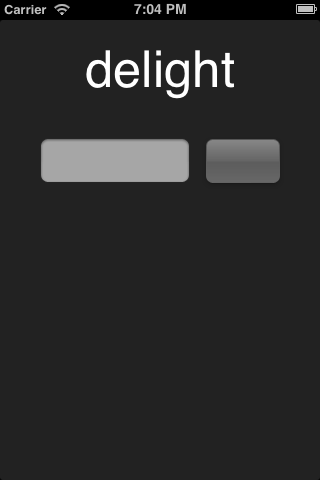
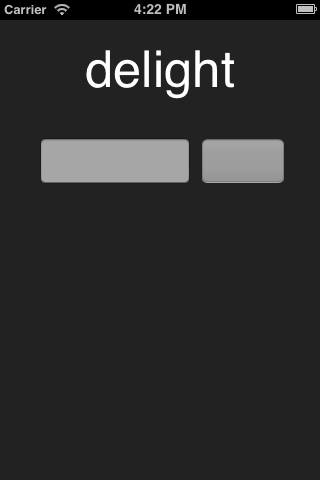
UI tweaks.

diff --git a/DelightBrowser/Classes/TaskViewController.m b/DelightBrowser/Classes/TaskViewController.m
@@ -54,8 +54,8 @@
     actionGradient.locations = [NSArray arrayWithObjects:[NSNumber numberWithFloat:0.0], [NSNumber numberWithFloat:1.0], nil];
     [self.actionButtonsView.layer insertSublayer:actionGradient atIndex:0];
     
-    UIImage *normalImage = [[UIImage imageNamed:@"button_rounded.png"] resizableImageWithCapInsets:UIEdgeInsetsMake(9, 3, 9, 3)];
-    UIImage *pressedImage = [[UIImage imageNamed:@"button_rounded_pressed.png"] resizableImageWithCapInsets:UIEdgeInsetsMake(9, 3, 9, 3)];
+    UIImage *normalImage = [[UIImage imageNamed:@"button_rounded.png"] resizableImageWithCapInsets:UIEdgeInsetsMake(14, 5, 14, 5)];
+    UIImage *pressedImage = [[UIImage imageNamed:@"button_rounded_pressed.png"] resizableImageWithCapInsets:UIEdgeInsetsMake(14, 5, 14, 5)];
     [self.nextTaskButton setBackgroundImage:normalImage forState:UIControlStateNormal];
     [self.nextTaskButton setBackgroundImage:pressedImage forState:UIControlStateHighlighted];
     [self.endTestButton setBackgroundImage:normalImage forState:UIControlStateNormal];

diff --git a/DelightBrowser/Classes/PINViewController.m b/DelightBrowser/Classes/PINViewController.m
@@ -26,8 +26,8 @@
     frame.size.height = self.goButton.frame.size.height + 1.5;
     self.pinTextField.frame = frame;
     
-    UIImage *normalImage = [[UIImage imageNamed:@"button_rounded.png"] resizableImageWithCapInsets:UIEdgeInsetsMake(9, 3, 9, 3)];
-    UIImage *pressedImage = [[UIImage imageNamed:@"button_rounded_pressed.png"] resizableImageWithCapInsets:UIEdgeInsetsMake(9, 3, 9, 3)];
+    UIImage *normalImage = [[UIImage imageNamed:@"button_rounded.png"] resizableImageWithCapInsets:UIEdgeInsetsMake(14, 5, 14, 5)];
+    UIImage *pressedImage = [[UIImage imageNamed:@"button_rounded_pressed.png"] resizableImageWithCapInsets:UIEdgeInsetsMake(14, 5, 14, 5)];
     [self.goButton setBackgroundImage:normalImage forState:UIControlStateNormal];
     [self.goButton setBackgroundImage:pressedImage forState:UIControlStateHighlighted];
 }
